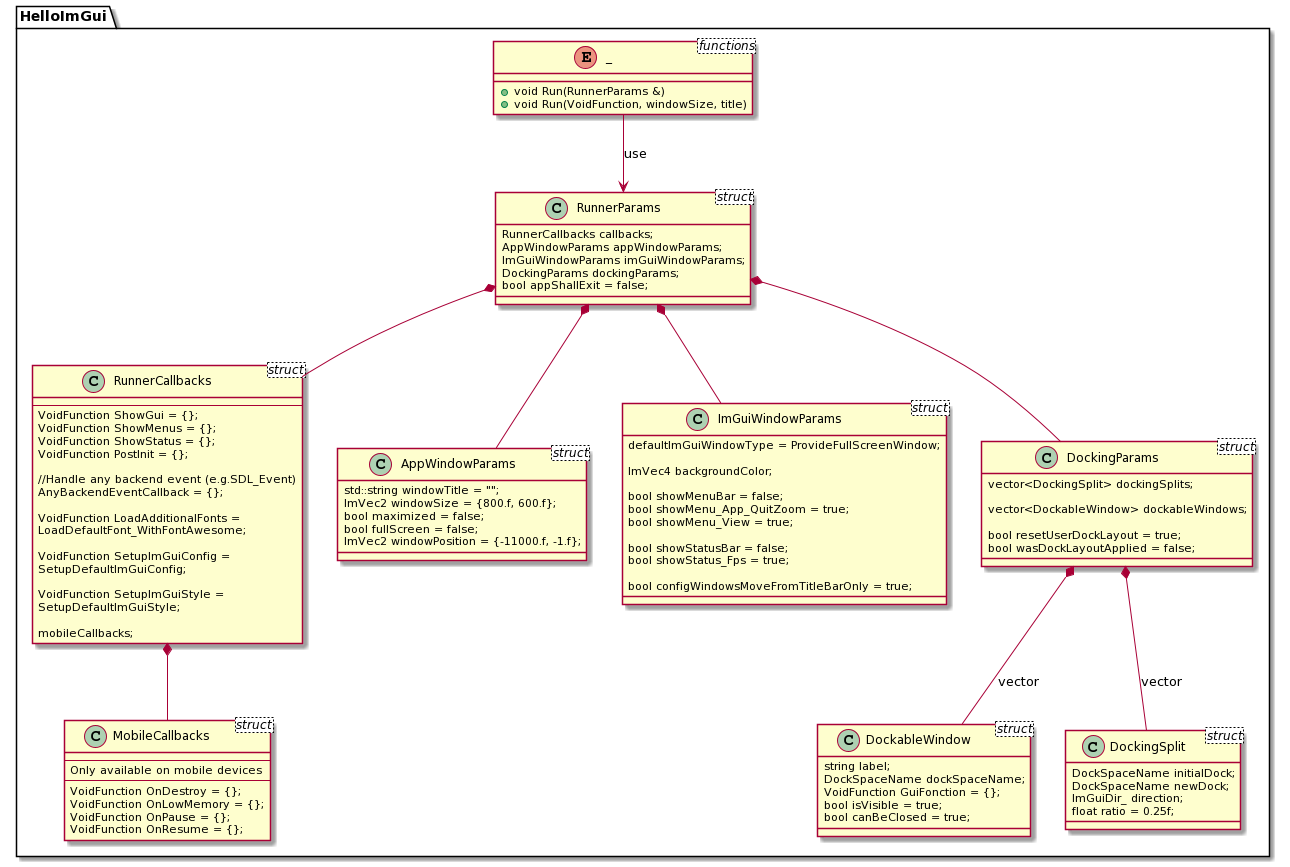
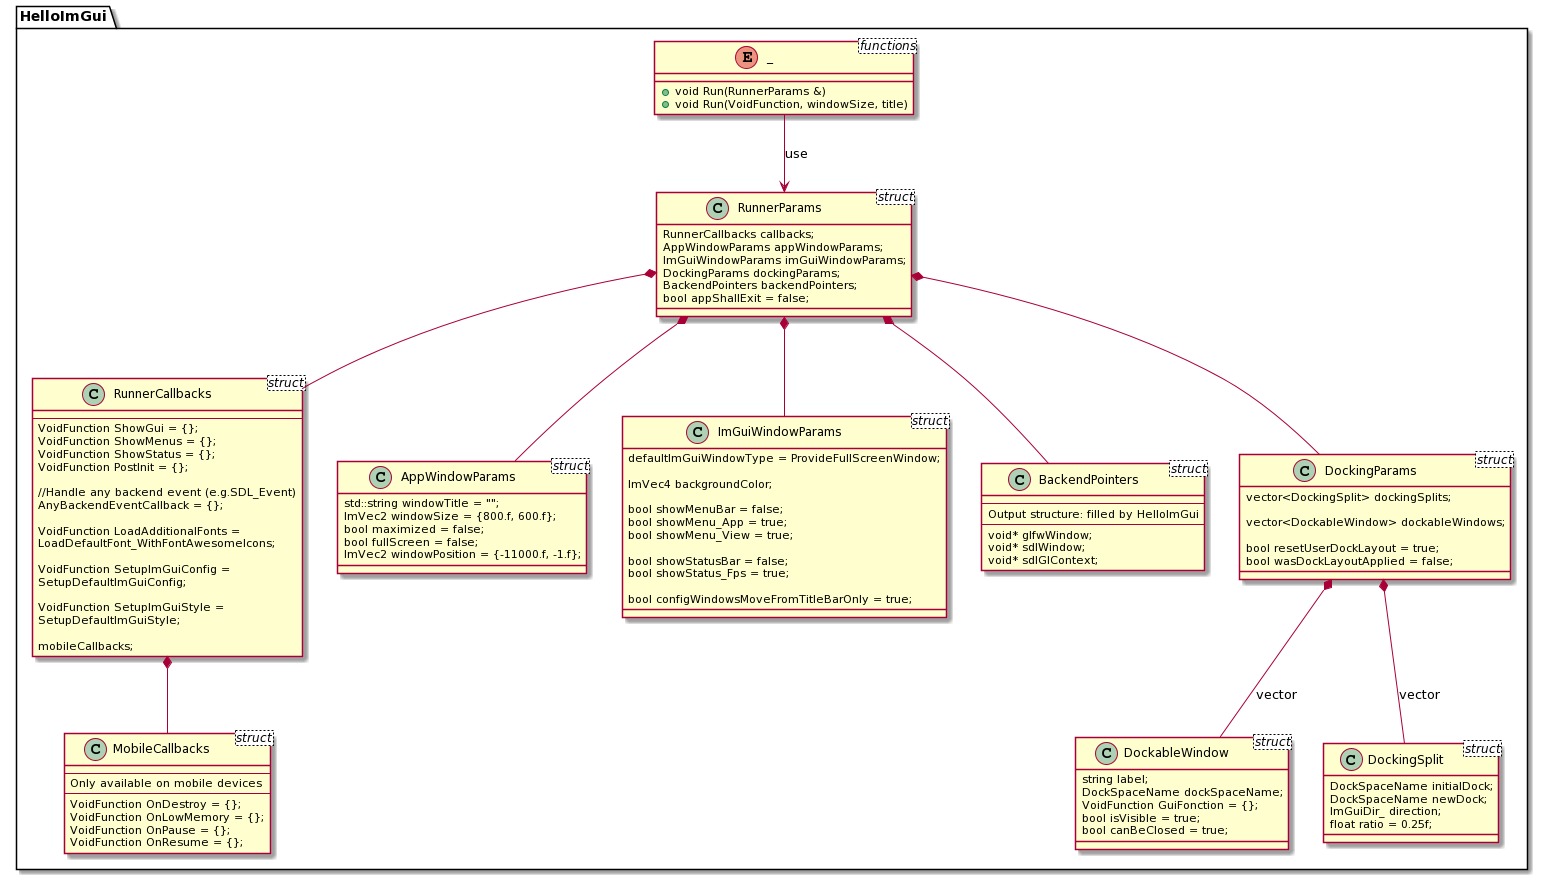
Add backend_pointers

diff --git a/src/hello_imgui/internal/backend_impls/runner_sdl_opengl3.cpp b/src/hello_imgui/internal/backend_impls/runner_sdl_opengl3.cpp
@@ -138,6 +138,9 @@ namespace HelloImGui
 
         SDL_GL_MakeCurrent(mWindow, mGlContext); // KK No
         SDL_GL_SetSwapInterval(1);  // Enable vsync
+
+        params.backendPointers.sdlGlContext = mWindow;
+        params.backendPointers.sdlGlContext = mGlContext;
     }
 
     void RunnerSdlOpenGl3::Impl_InitGlLoader()
@@ -230,9 +233,9 @@ namespace HelloImGui
 
     bool RunnerSdlOpenGl3::priv_HandleMobileDeviceEvent(unsigned int sdl_EventType)
     {
+#ifdef HELLOIMGUI_MOBILEDEVICE
         switch(sdl_EventType)
         {
-#ifdef HELLOIMGUI_MOBILEDEVICE
             case SDL_APP_TERMINATING:
                 /* Terminate the app.
                    Shut everything down before returning from this function.
@@ -271,11 +274,13 @@ namespace HelloImGui
                 */
                 OnResume();
                 return true;
-#endif // #ifdef HELLOIMGUI_MOBILEDEVICE
             default:
                 /* No special processing, add it to the event queue */
                 return false;
         }
+#else // #ifdef HELLOIMGUI_MOBILEDEVICE
+      return false;
+#endif
     }
 
 

diff --git a/src/hello_imgui/runner_params.h b/src/hello_imgui/runner_params.h
@@ -3,6 +3,7 @@
 #include "hello_imgui/imgui_window_params.h"
 #include "hello_imgui/runner_callbacks.h"
 #include "hello_imgui/docking_params.h"
+#include "hello_imgui/backend_pointers.h"
 
 namespace HelloImGui
 {
@@ -20,6 +21,9 @@ namespace HelloImGui
     imgui window params (use docking, showMenuBar, ProvideFullScreenWindow, etc)
 * `dockingParams`: _see [docking_params.h](docking_params.h)_.
     dockable windows content and layout
+* `backendPointers`: _see [backend_pointers.h](backend_pointers.h)_.
+   A struct that contains optional pointers to the backend implementations. These pointers will be filled 
+   when the application starts
 * `appShallExit`: _bool, default=false_.
    will be set to true by the app when exiting.
    _Note: 'appShallExit' has no effect on Mobile Devices (iOS, Android) and under emscripten, since these apps
@@ -34,6 +38,7 @@ struct RunnerParams
     AppWindowParams appWindowParams;
     ImGuiWindowParams imGuiWindowParams;
     DockingParams dockingParams;
+    BackendPointers backendPointers;
     bool appShallExit = false;
     int fps = 0;
 };

diff --git a/src/hello_imgui/backend_pointers.h b/src/hello_imgui/backend_pointers.h
@@ -1,0 +1,30 @@
+#pragma once
+
+namespace HelloImGui
+{
+
+/**
+ @@md#BackendPointers
+**BackendPointers** is a struct that contains optional pointers to the backend implementations (for SDL and GLFW).
+
+These pointers will be filled when the application starts, and you can use them to customize
+your application behavior using the selected backend.
+
+ Members:
+* `glfwWindow`: _void *, default=nullptr_. Pointer to the main GLFW window (of type `GLFWwindow*`)
+  Only filled if the backend is GLFW.
+* `sdlWindow`: _void *, default=nullptr_. Pointer to the main SDL window (of type `SDL_Window*`)
+  Only filled if the backend is SDL (or emscripten + sdl)
+* `sdlGlContext`: _void *, default=nullptr_. Pointer to SDL's GlContext (of type `SDL_GLContext`)
+  Only filled if the backend is SDL (or emscripten + sdl)
+@@md
+ */
+struct BackendPointers
+{
+  /* GLFWwindow*    */    void* glfwWindow     = nullptr;
+
+  /* SDL_Window*    */    void* sdlWindow      = nullptr;
+  /* SDL_GLContext  */    void* sdlGlContext   = nullptr;
+};
+
+}  // namespace HelloImGui

diff --git a/src/hello_imgui/internal/backend_impls/runner_glfw_opengl3.cpp b/src/hello_imgui/internal/backend_impls/runner_glfw_opengl3.cpp
@@ -89,6 +89,8 @@ namespace HelloImGui
         {
             mWindow = glfwCreateWindow(
                 (int)windowSize.x, (int)windowSize.y, backendWindowParams.windowTitle.c_str(), NULL, NULL);
+            if (params.appWindowParams.maximized)
+              glfwMaximizeWindow(mWindow);
         }
         if (windowPosition.x >= -10000.f)
             glfwSetWindowPos(mWindow, (int)windowPosition.x, (int)windowPosition.y);
@@ -100,6 +102,8 @@ namespace HelloImGui
         }
         glfwMakeContextCurrent(mWindow);
         glfwSwapInterval(1);  // Enable vsync
+
+        params.backendPointers.glfwWindow = mWindow;
     }
 
     void RunnerGlfwOpenGl3::Impl_InitGlLoader()

diff --git a/src/hello_imgui/hello_imgui_api.src.md b/src/hello_imgui/hello_imgui_api.src.md
@@ -63,6 +63,11 @@ See [imgui_window_params.h](imgui_window_params.h).
 
 ----
 
+#### Backend Pointers
+
+@import "backend_pointers.h" {md_id=BackendPointers}
+
+----
 ## Applications assets
 
 See [hello_imgui_assets.h](hello_imgui_assets.h).
@@ -78,7 +83,6 @@ See [hello_imgui_assets.h](hello_imgui_assets.h).
 #### Get assets path
 
 @import "hello_imgui_assets.h" {md_id=assetFileFullPath}
-
 
 ----
 
